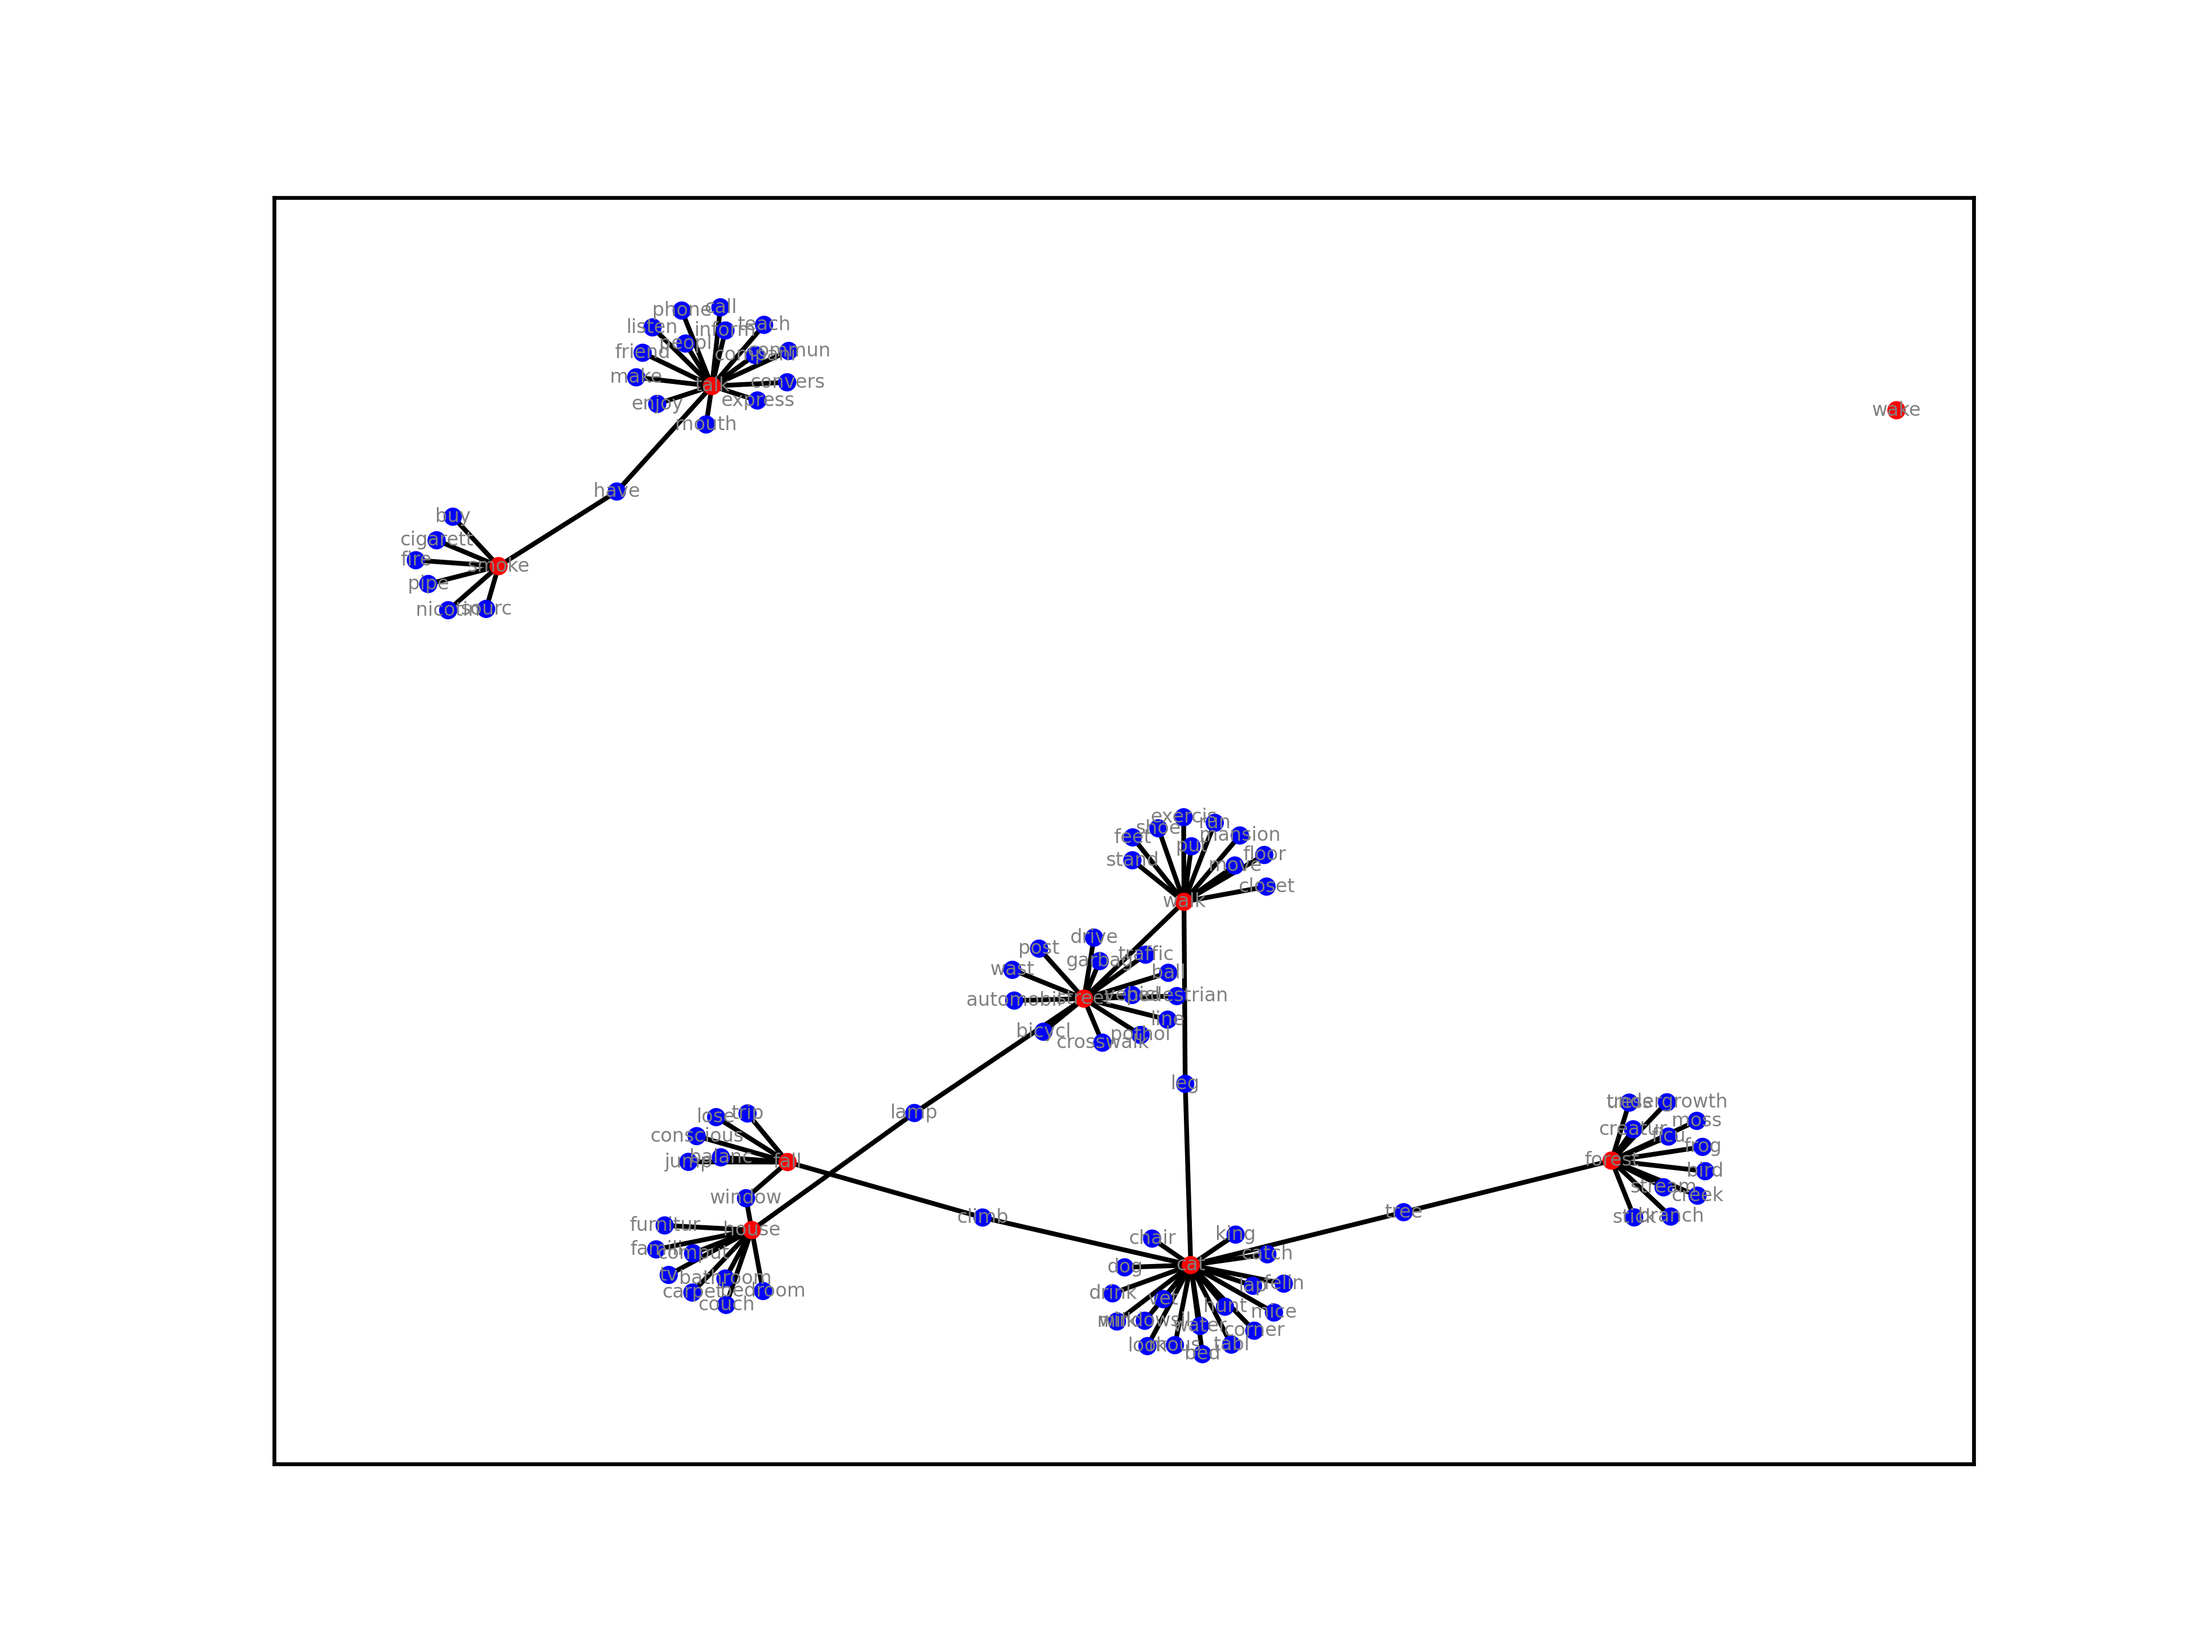
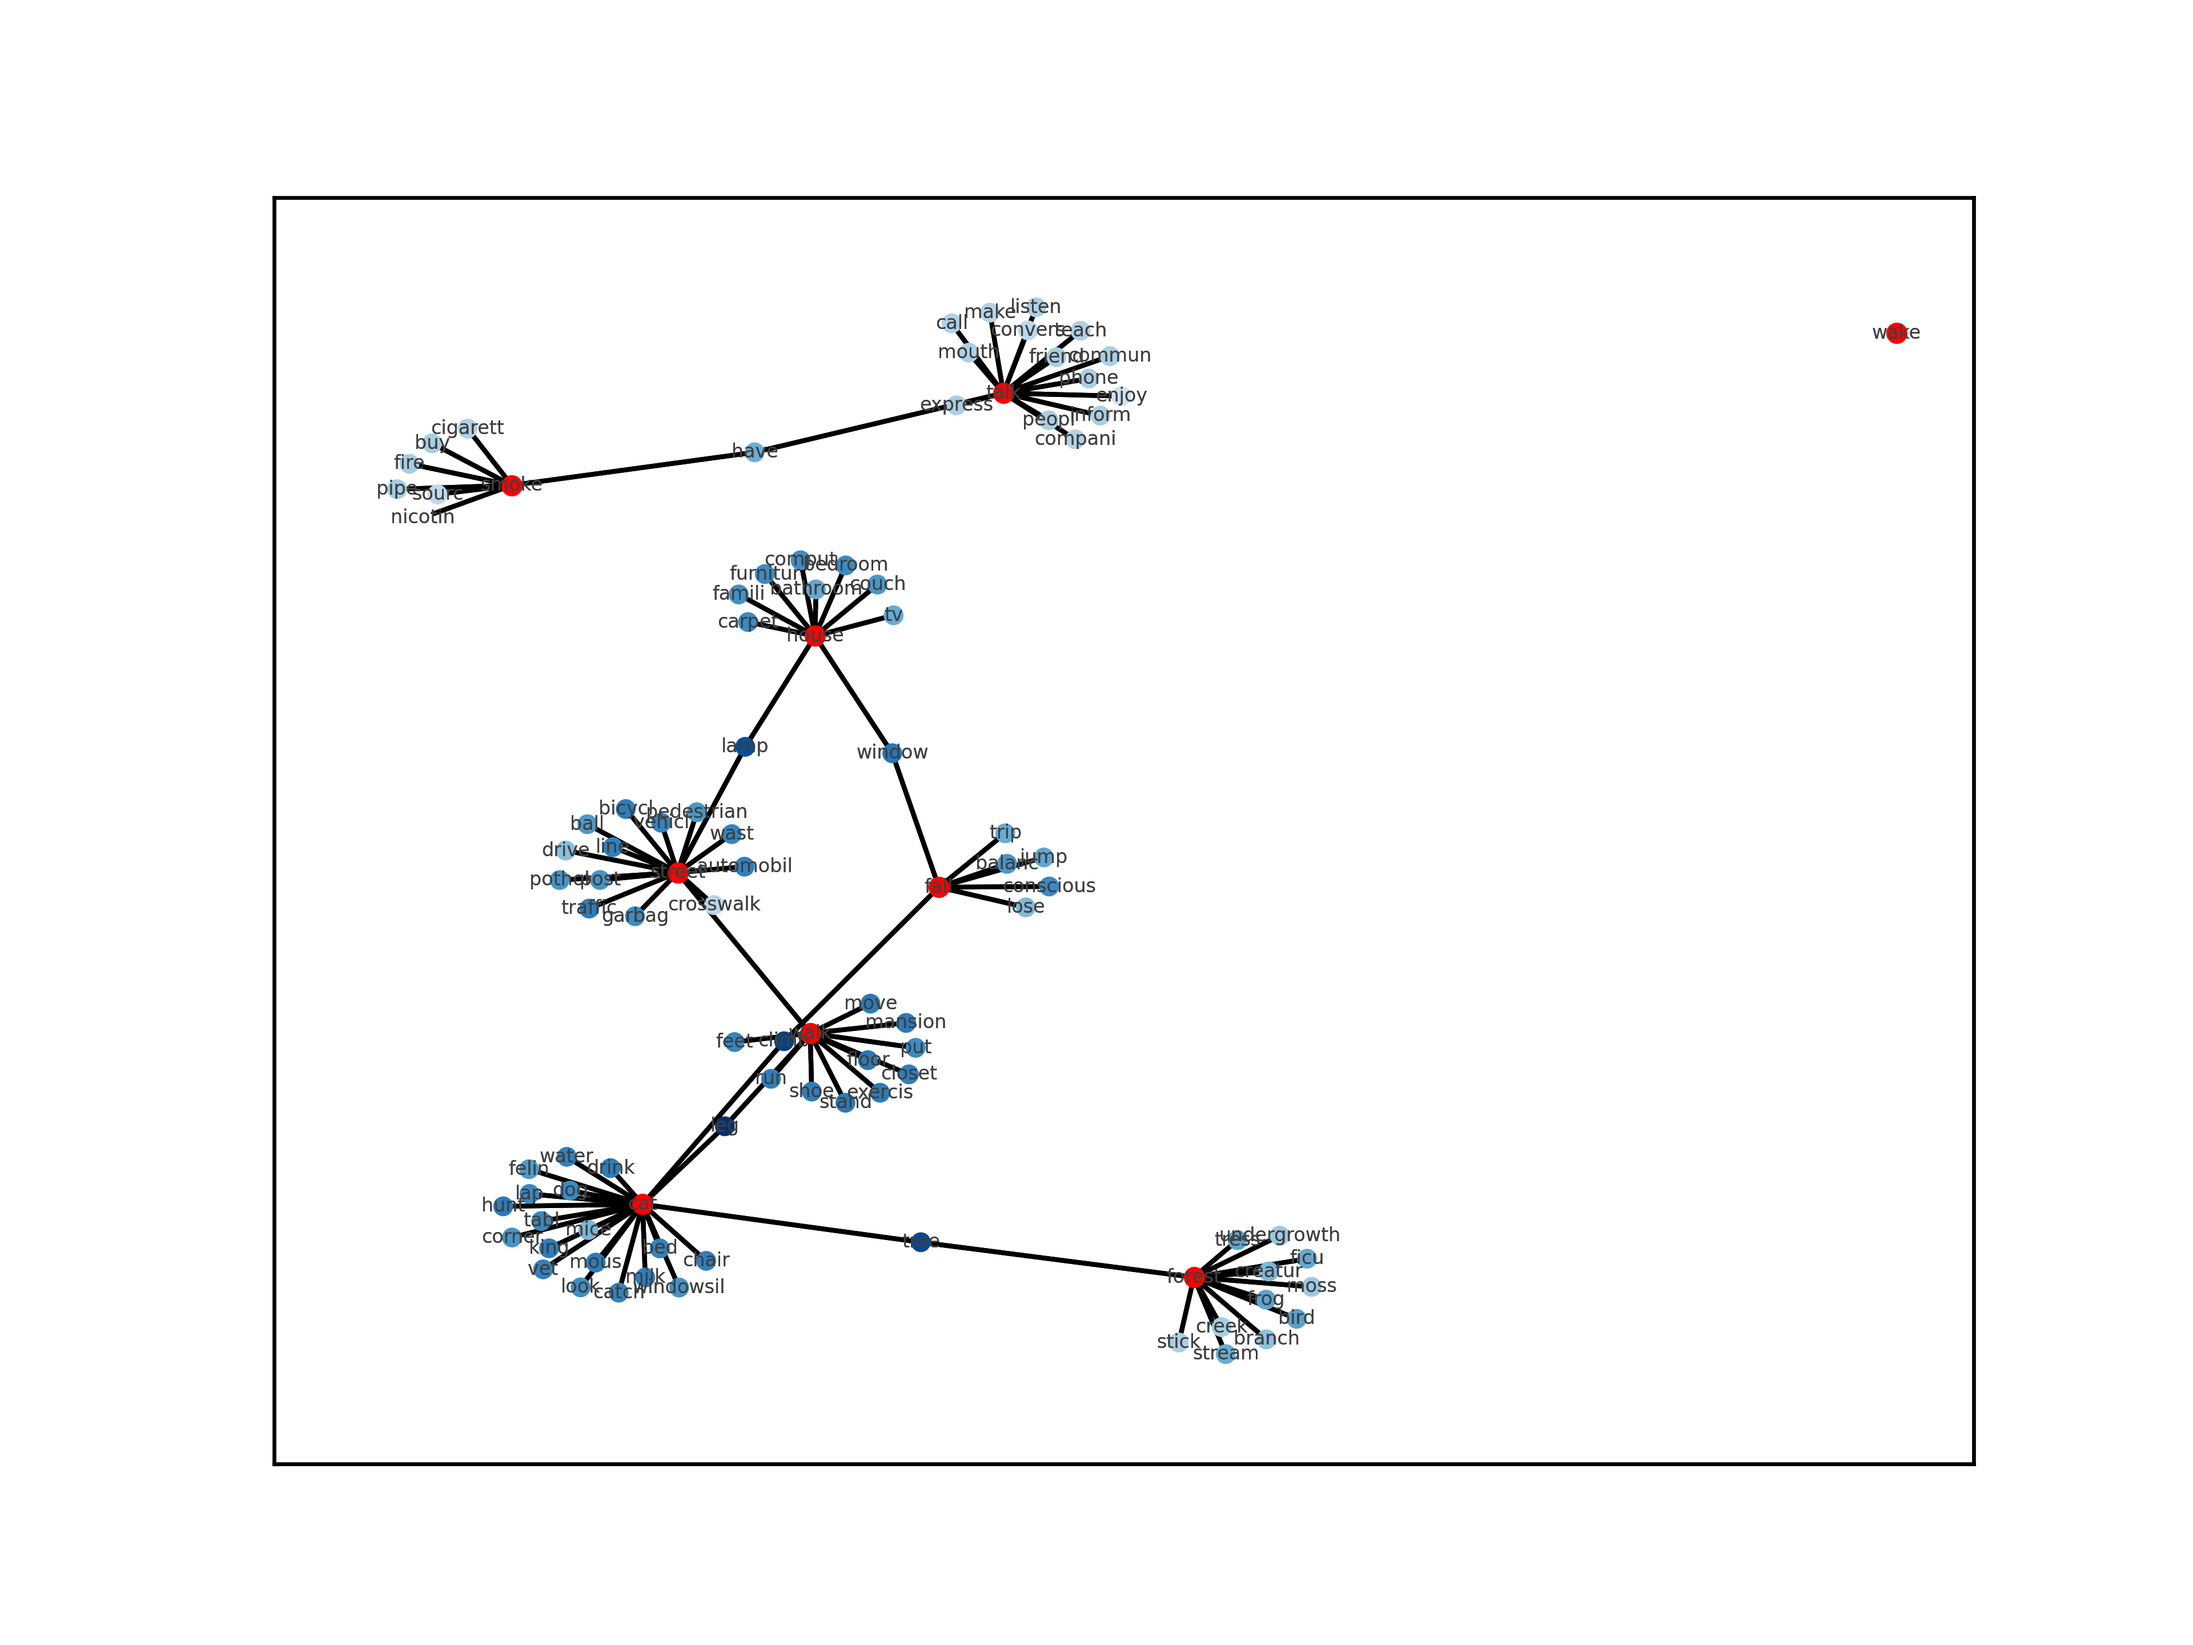
latest

diff --git a/gpt3_api.py b/gpt3_api.py
@@ -23,8 +23,8 @@ def gpt3_k2s(logger, args, kwlist):
     elif args.prompt_model == 'davinci':
         gpt3_model = 'text-davinci-002'
     else:
-        logger.info("Using generation model \"text-davinci-001\" for story generation!")
-        gpt3_model = 'text-davinci-001'
+        logger.info("Using generation model \"text-curie-001\" for story generation!")
+        gpt3_model = 'text-curie-001'
 
     response = openai.Completion.create(model=gpt3_model,
                                         engine=deployment_id, 
@@ -36,12 +36,20 @@ def gpt3_k2s(logger, args, kwlist):
 
 def gpt3_generation(logger, args, prompt, scores, stem_to_words):
     tokenizer = GPT2TokenizerFast.from_pretrained("gpt2")
-    keys = list(scores.keys())
-    values = [scores[k] for k in keys]
+    
+    real_key_value = dict()
+    for k, v in scores.items():
+        real_words = stem_to_words[k]
+        for rw in real_words:
+            real_key_value[rw] = v
+    
+    keys = list(real_key_value.keys())
+    values = [real_key_value[k]*args.beta for k in keys]
+
     _keys = [' '+k for k in keys]
+
     token_ids = [tokenizer(k)['input_ids'][0] for k in _keys]
     token_score_dict = dict(zip(token_ids, values))
-    print(token_score_dict)
 
     if args.model == 'ada':
         gpt3_model = 'text-ada-001'
@@ -52,20 +60,22 @@ def gpt3_generation(logger, args, prompt, scores, stem_to_words):
     elif args.model == 'davinci':
         gpt3_model = 'text-davinci-002'
     else:
-        logger.info("Using generation model \"text-davinci-001\" for story generation!")
-        gpt3_model = 'text-davinci-001'
+        logger.info("Using generation model \"text-curie-001\" for story generation!")
+        gpt3_model = 'text-curie-001'
 
     start_phrase = 'Continue the story beginning with \"' + prompt + "\""
     response = openai.Completion.create(model=gpt3_model,
                                         engine=deployment_id, 
                                         prompt=start_phrase, 
                                         max_tokens=500,
-                                        frequency_penalty=0.1,
+                                        temperature=1,
+                                        top_p=1,
+                                        frequency_penalty=args.freq_pen,
                                         logit_bias = token_score_dict
                                         )
     
     text = response['choices'][0]['text'].replace('\n', '').replace(' .', '.').strip()
-    return text
+    return prompt+' '+text
 
 def original_gpt3(logger, args, kw_list):
     kw_list = ["\""+w+"\"" for w in kw_list]
@@ -82,8 +92,8 @@ def original_gpt3(logger, args, kw_list):
     elif args.model == 'davinci':
         gpt3_model = 'text-davinci-002'
     else:
-        logger.info("Using generation model \"text-davinci-001\" for story generation!")
-        gpt3_model = 'text-davinci-001'
+        logger.info("Using generation model \"text-curie-001\" for story generation!")
+        gpt3_model = 'text-curie-001'
 
     response = openai.Completion.create(model=gpt3_model,
                                         engine=deployment_id,

diff --git a/main.py b/main.py
@@ -8,13 +8,15 @@ import torch
 from datetime import datetime
 import logging
 import sys
+from IPython.display import display
+import ipywidgets as widgets
 
 def set_logs():
     if not os.path.isdir('logs/'):
         os.mkdir('logs/')
     filename = datetime.now().strftime('log_%Y%m%d_%H_%M.log')
 
-    logFormatter = logging.Formatter("%(levelname)s-%(asctime)s-%(message)s")
+    logFormatter = logging.Formatter("%(levelname)s-%(asctime)s  %(message)s")
     rootLogger = logging.getLogger("requests")
     rootLogger.setLevel(logging.INFO)
 
@@ -35,6 +37,31 @@ def init_seed():
 def show_args( args):
     for arg in vars(args):
         logger.info(f"{arg}={getattr(args, arg)}")
+    logger.info("")
+
+def run(logger, args):
+    dataLoader = DataLoader()
+    dataLoader.readfile(args.data_dir)
+    kw_list = dataLoader.keyword_list[0]
+
+    # kw_list = str(inp.value).strip().split(',')
+
+    promt_sentence = promptGeneration(logger, args, kw_list)
+
+    path, hubs, stem_to_words, nei_to_hub = build_kg(kw_list=kw_list)
+    final_score = calculate_score(logger, args, path, hubs, stem_to_words, nei_to_hub)
+
+    story = gpt3_generation(logger, args, promt_sentence, final_score, stem_to_words)
+
+    logger.info("-----Story-----")
+    logger.info(f"promt_sentence: {promt_sentence}")
+    logger.info(story)
+
+    gpt3_story = original_gpt3(logger, args, kw_list)
+
+    logger.info("-----Original GPT-3 Story-----")
+    logger.info(gpt3_story)
+
 
 if __name__ == "__main__":
     logger = set_logs()
@@ -44,26 +71,14 @@ if __name__ == "__main__":
     parser.add_argument('--prompt_model', type=str, default="curie")
     parser.add_argument('--model', type=str, default="curie")
     parser.add_argument('--alpha', type=float, default=0.3)  # importance of other hub nodes
+    parser.add_argument('--beta', type=float, default=0.8)   # importance of relevant words
+    parser.add_argument('--freq_pen', type=float, default=0.6)
+    parser.add_argument('--ps_pen', type=float, default=0.0)
+    parser.add_argument('--temp', type=float, default=0)
+    parser.add_argument('--top_p', type=float, default=1)
     args = parser.parse_args()
 
     show_args(args)
     init_seed()
 
-    dataLoader = DataLoader()
-    dataLoader.readfile(args.data_dir)
-
-    promt_sentence = promptGeneration(logger, args, dataLoader.keyword_list[0])
-
-    path, hubs, stem_to_words, nei_to_hub = build_kg(kw_list=dataLoader.keyword_list[0])
-    final_score = calculate_score(logger, args, path, hubs, stem_to_words, nei_to_hub)
-
-    story = gpt3_generation(logger, args, promt_sentence, final_score, stem_to_words)
-
-    logger.info(f"promt_sentence: {promt_sentence}")
-    logger.info("-----Story-----")
-    logger.info(story)
-
-    gpt3_story = original_gpt3(logger, args, dataLoader.keyword_list[0])
-
-    logger.info("-----Original GPT-3 Story-----")
-    logger.info(gpt3_story)
+    run(logger, args)

diff --git a/local_kg.py b/local_kg.py
@@ -61,7 +61,6 @@ def build_kg(kw_list):
     return path, words, stem_to_words, nei_to_hub
 
 def calculate_score(logger, args, path, hubs, stem_to_words, nei_to_hub):
-    logger.info("-----Calculating KG Score-----")
     G = nx.Graph()
     all_nodes = set(hubs)
     
@@ -74,22 +73,16 @@ def calculate_score(logger, args, path, hubs, stem_to_words, nei_to_hub):
     
     G.add_nodes_from(all_nodes)
 
-    # drawing network
-    logger.info("-----drawing network-----")
-    color_map = []
-    for node in G:
-        if node in hubs:
-            color_map.append('red')
-        else: 
-            color_map.append('blue')
-    nx.draw_networkx(G, node_color=color_map, node_size=8, font_size=4, font_color='grey')
-    plt.savefig("local_kgs/kg.png", dpi=600)
-
     logger.info(f"Hub nodes num: {len(hubs)}, Total nodes num: {len(all_nodes)}")
     non_hubs = all_nodes - set(hubs)
+
+    logger.info(f"hub words: {hubs}")
+    logger.info(f"related words: {non_hubs}")
     
     unreachable = 100
     distance_dict = defaultdict(list)
+
+    logger.info("")
 
     for h in hubs:
         logger.info(f"calculating distance to hub \"{h}\"")
@@ -142,5 +135,15 @@ def calculate_score(logger, args, path, hubs, stem_to_words, nei_to_hub):
 
     sim_matrix = pd.concat([sim_matrix, df_final_score], axis=1)
     # logger.info(sim_matrix.head(10))
+
+    # drawing network
+    logger.info("-----drawing network-----")
+    color_map = []
+    for node in non_hubs:
+        color_map.append(final_score[node]*10+1)
+    pos = nx.spring_layout(G)
+    nx.draw_networkx(G, pos=pos, nodelist=non_hubs, node_color=color_map, cmap = plt.cm.Blues, node_size=10, font_size=4, font_color='#404040')
+    nx.draw_networkx(G, pos=pos, nodelist=hubs, node_color='red', node_size=12, font_size=4, font_color='#404040')
+    plt.savefig("local_kgs/kg.png", dpi=600)
 
     return final_score

diff --git a/test.py b/test.py
@@ -1,0 +1,12 @@
+import tkinter as tk
+
+master = tk.Tk()
+
+def write_slogan():
+    info_message = "Your message"
+    tk.Label(master, text=info_message).grid(row=2, column=1) 
+
+btn = tk.Button(master, text='ORDER Number', command=write_slogan)
+btn.grid(row=3, column=1, sticky=tk.W, pady=4)
+
+master.mainloop()

diff --git a/prompt.py b/prompt.py
@@ -85,7 +85,7 @@ def promptGeneration(logger, args, kwlist):
     
     words = []
     for token in doc:
-        if token.pos_ == "NOUN" or token.pos_ == "VERB":
+        if token.pos_ == "NOUN" or token.pos_ == "VERB" or token.pos_ == "ADJ":
             words.append(str((token)))
 
     related_words = dict()
